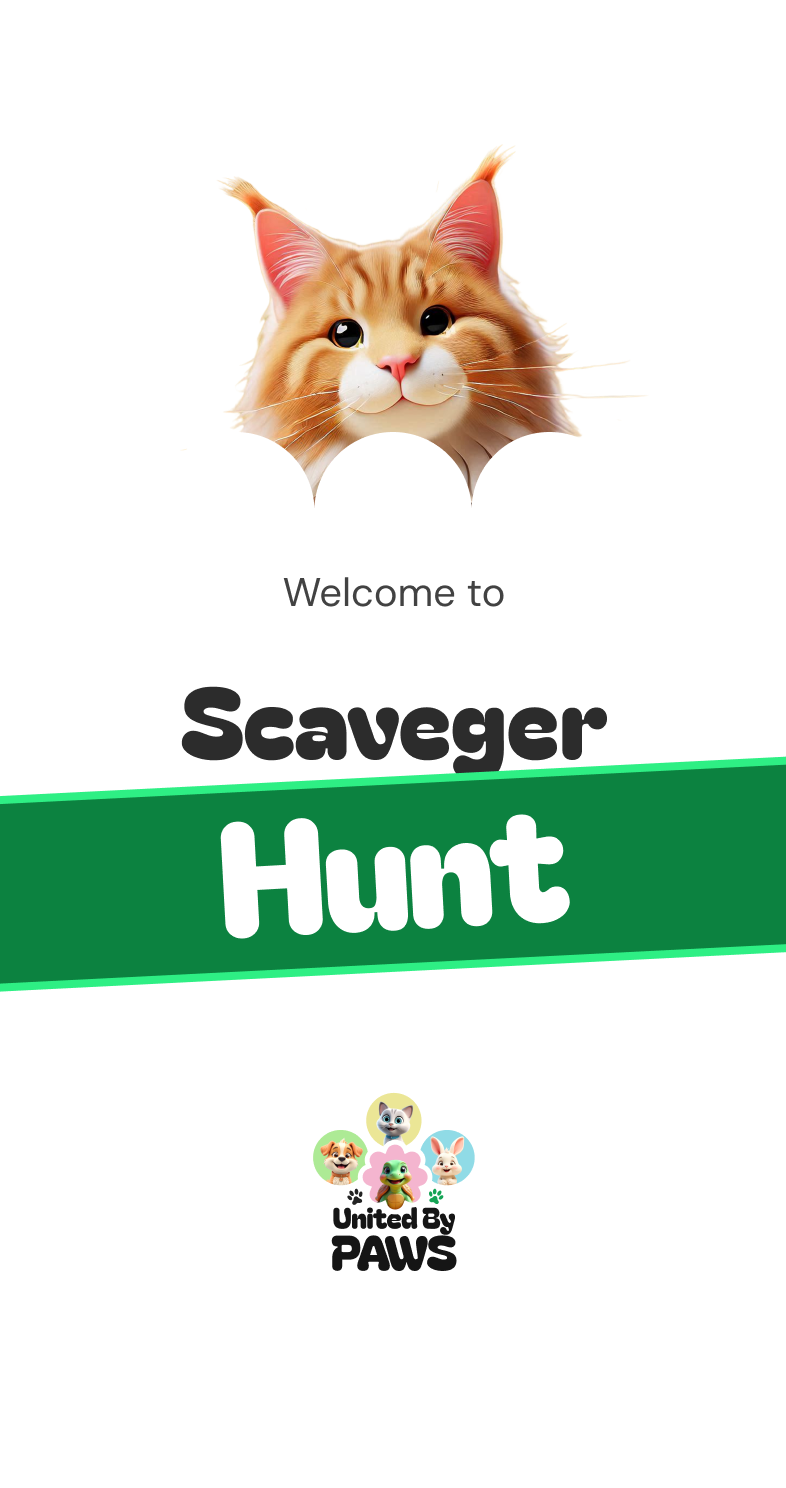
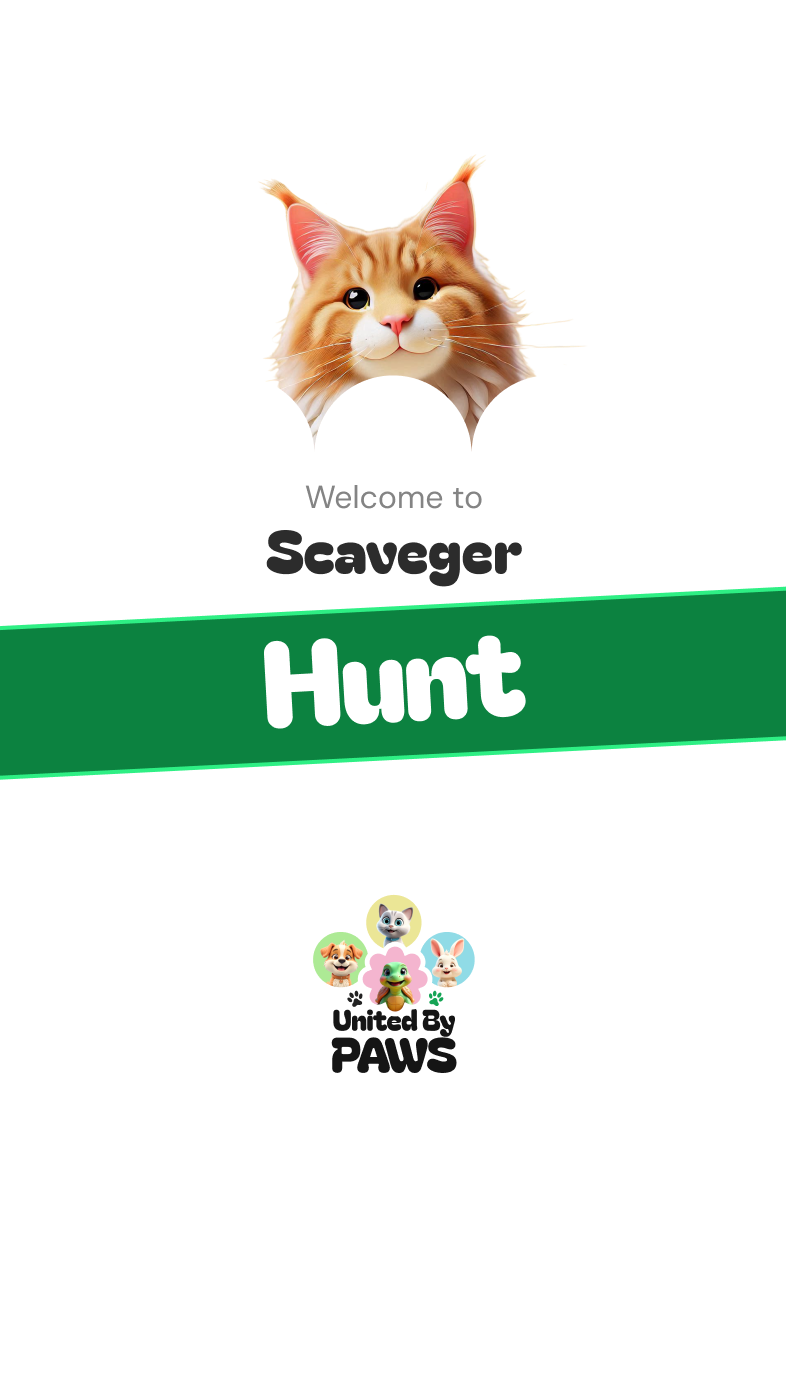
gfds1

Changed region(s): [[0.0, 0.0923, 1.0, 0.8612]]

diff --git a/event-game/src/App.js b/event-game/src/App.js
@@ -17,15 +17,17 @@ function Welcome() {
       textAlign: "center",
       padding: "0%",
       backgroundColor: "#4dd766",
-      height: "80vh",
-      color: "white"
+      height: "100vh",
+      color: "white",
+      display:"flex",
+      justifyContent:"center"
     }}>
       <button
         onClick={() => navigate(`/quiz/${tableNumber}`)} // Navigate using dynamic tableNumber
         style={{ 
           position: "absolute",
           bottom: "2vh",
-          left: "35%",
+          // left: "35%",
           padding: "10px 20px",
           fontSize: "16px",
           backgroundColor: "white",
